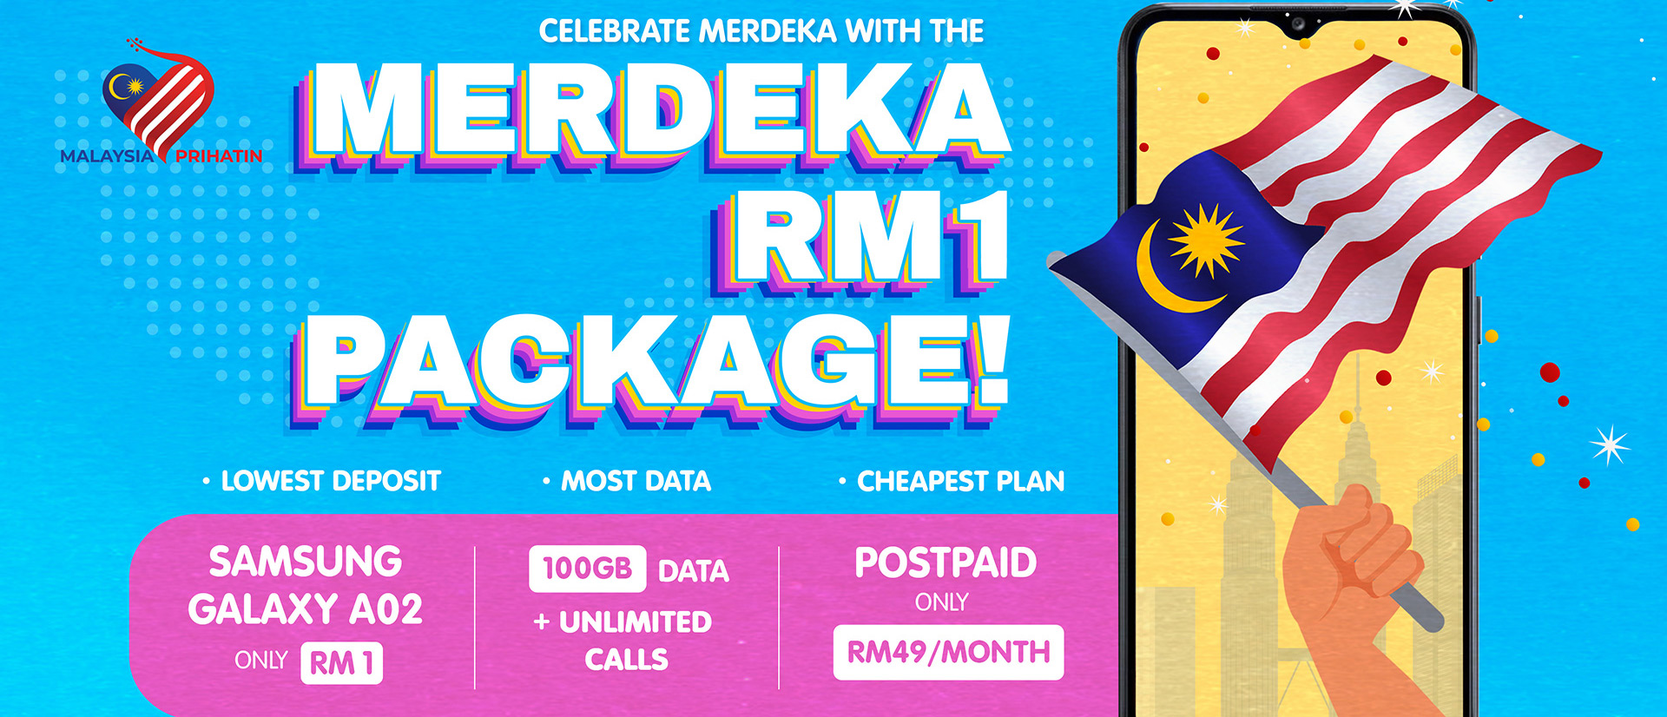
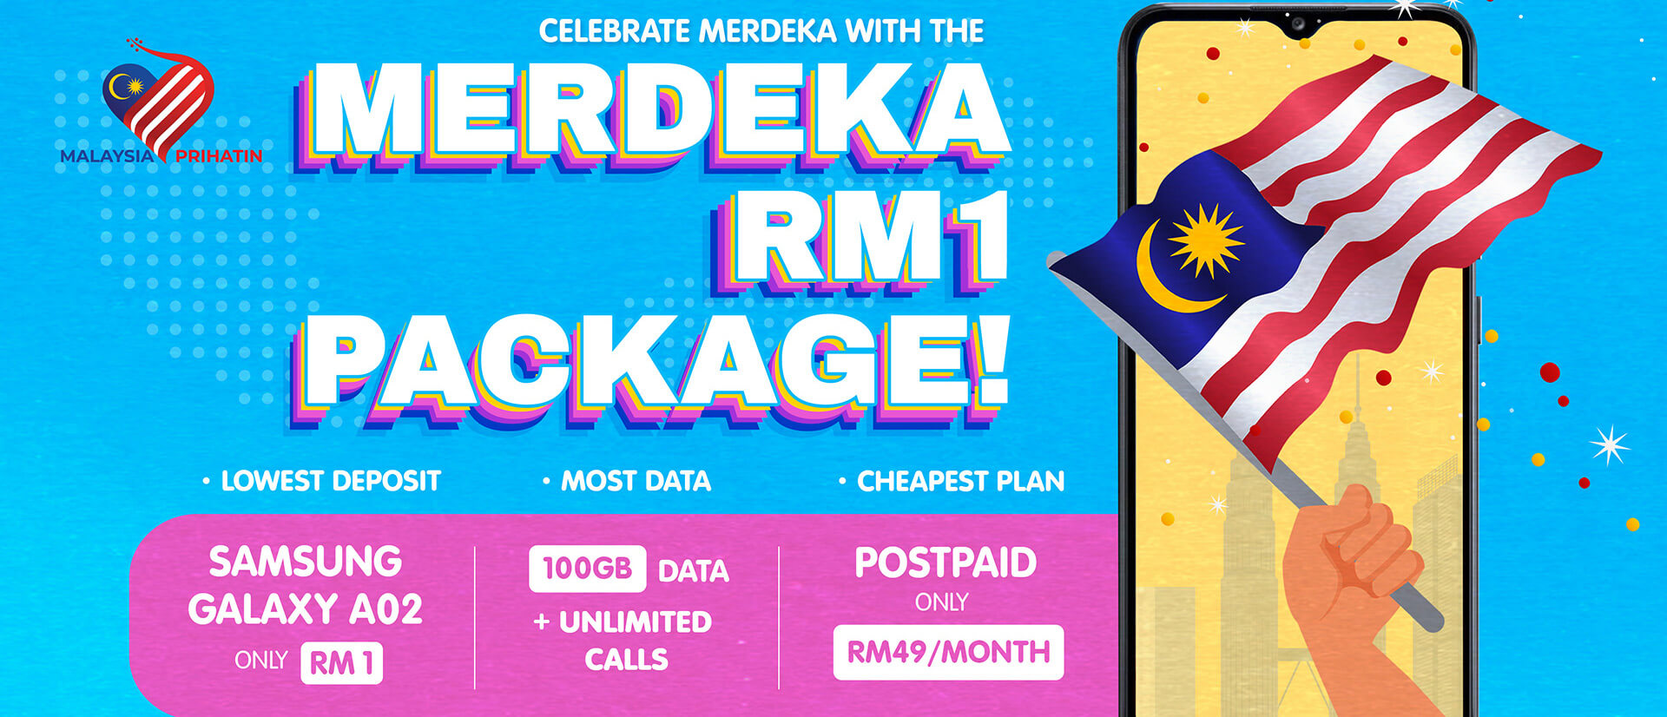
compressed images updated

diff --git a/static/css/aos.css b/static/css/aos.css
@@ -1,0 +1,1 @@
+[data-aos][data-aos][data-aos-duration="50"],body[data-aos-duration="50"] [data-aos]{transition-duration:50ms}[data-aos][data-aos][data-aos-delay="50"],body[data-aos-delay="50"] [data-aos]{transition-delay:0}[data-aos][data-aos][data-aos-delay="50"].aos-animate,body[data-aos-delay="50"] [data-aos].aos-animate{transition-delay:50ms}[data-aos][data-aos][data-aos-duration="100"],body[data-aos-duration="100"] [data-aos]{transition-duration:.1s}[data-aos][data-aos][data-aos-delay="100"],body[data-aos-delay="100"] [data-aos]{transition-delay:0}[data-aos][data-aos][data-aos-delay="100"].aos-animate,body[data-aos-delay="100"] [data-aos].aos-animate{transition-delay:.1s}[data-aos][data-aos][data-aos-duration="150"],body[data-aos-duration="150"] [data-aos]{transition-duration:.15s}[data-aos][data-aos][data-aos-delay="150"],body[data-aos-delay="150"] [data-aos]{transition-delay:0}[data-aos][data-aos][data-aos-delay="150"].aos-animate,body[data-aos-delay="150"] [data-aos].aos-animate{transition-delay:.15s}[data-aos][data-aos][data-aos-duration="200"],body[data-aos-duration="200"] [data-aos]{transition-duration:.2s}[data-aos][data-aos][data-aos-delay="200"],body[data-aos-delay="200"] [data-aos]{transition-delay:0}[data-aos][data-aos][data-aos-delay="200"].aos-animate,body[data-aos-delay="200"] [data-aos].aos-animate{transition-delay:.2s}[data-aos][data-aos][data-aos-duration="250"],body[data-aos-duration="250"] [data-aos]{transition-duration:.25s}[data-aos][data-aos][data-aos-delay="250"],body[data-aos-delay="250"] [data-aos]{transition-delay:0}[data-aos][data-aos][data-aos-delay="250"].aos-animate,body[data-aos-delay="250"] [data-aos].aos-animate{transition-delay:.25s}[data-aos][data-aos][data-aos-duration="300"],body[data-aos-duration="300"] [data-aos]{transition-duration:.3s}[data-aos][data-aos][data-aos-delay="300"],body[data-aos-delay="300"] [data-aos]{transition-delay:0}[data-aos][data-aos][data-aos-delay="300"].aos-animate,body[data-aos-delay="300"] [data-aos].aos-animate{transition-delay:.3s}[data-aos][data-aos][data-aos-duration="350"],body[data-aos-duration="350"] [data-aos]{transition-duration:.35s}[data-aos][data-aos][data-aos-delay="350"],body[data-aos-delay="350"] [data-aos]{transition-delay:0}[data-aos][data-aos][data-aos-delay="350"].aos-animate,body[data-aos-delay="350"] [data-aos].aos-animate{transition-delay:.35s}[data-aos][data-aos][data-aos-duration="400"],body[data-aos-duration="400"] [data-aos]{transition-duration:.4s}[data-aos][data-aos][data-aos-delay="400"],body[data-aos-delay="400"] [data-aos]{transition-delay:0}[data-aos][data-aos][data-aos-delay="400"].aos-animate,body[data-aos-delay="400"] [data-aos].aos-animate{transition-delay:.4s}[data-aos][data-aos][data-aos-duration="450"],body[data-aos-duration="450"] [data-aos]{transition-duration:.45s}[data-aos][data-aos][data-aos-delay="450"],body[data-aos-delay="450"] [data-aos]{transition-delay:0}[data-aos][data-aos][data-aos-delay="450"].aos-animate,body[data-aos-delay="450"] [data-aos].aos-animate{transition-delay:.45s}[data-aos][data-aos][data-aos-duration="500"],body[data-aos-duration="500"] [data-aos]{transition-duration:.5s}[data-aos][data-aos][data-aos-delay="500"],body[data-aos-delay="500"] [data-aos]{transition-delay:0}[data-aos][data-aos][data-aos-delay="500"].aos-animate,body[data-aos-delay="500"] [data-aos].aos-animate{transition-delay:.5s}[data-aos][data-aos][data-aos-duration="550"],body[data-aos-duration="550"] [data-aos]{transition-duration:.55s}[data-aos][data-aos][data-aos-delay="550"],body[data-aos-delay="550"] [data-aos]{transition-delay:0}[data-aos][data-aos][data-aos-delay="550"].aos-animate,body[data-aos-delay="550"] [data-aos].aos-animate{transition-delay:.55s}[data-aos][data-aos][data-aos-duration="600"],body[data-aos-duration="600"] [data-aos]{transition-duration:.6s}[data-aos][data-aos][data-aos-delay="600"],body[data-aos-delay="600"] [data-aos]{transition-delay:0}[data-aos][data-aos][data-aos-delay="600"].aos-animate,body[data-aos-delay="600"] [data-aos].aos-animate{transition-delay:.6s}[data-aos][data-aos][data-aos-duration="650"],body[data-aos-duration="650"] [data-aos]{transition-duration:.65s}[data-aos][data-aos][data-aos-delay="650"],body[data-aos-delay="650"] [data-aos]{transition-delay:0}[data-aos][data-aos][data-aos-delay="650"].aos-animate,body[data-aos-delay="650"] [data-aos].aos-animate{transition-delay:.65s}[data-aos][data-aos][data-aos-duration="700"],body[data-aos-duration="700"] [data-aos]{transition-duration:.7s}[data-aos][data-aos][data-aos-delay="700"],body[data-aos-delay="700"] [data-aos]{transition-delay:0}[data-aos][data-aos][data-aos-delay="700"].aos-animate,body[data-aos-delay="700"] [data-aos].aos-animate{transition-delay:.7s}[data-aos][data-aos][data-aos-duration="750"],body[data-aos-duration="750"] [data-aos]{transition-duration:.75s}[data-aos][data-aos][data-aos-delay="750"],body[data-aos-delay="750"] [data-aos]{transition-delay:0}[data-aos][data-aos][data-aos-delay="750"].aos-animate,body[data-aos-delay="750"] [data-aos].aos-animate{transition-delay:.75s}[data-aos][data-aos][data-aos-duration="800"],body[data-aos-duration="800"] [data-aos]{transition-duration:.8s}[data-aos][data-aos][data-aos-delay="800"],body[data-aos-delay="800"] [data-aos]{transition-delay:0}[data-aos][data-aos][data-aos-delay="800"].aos-animate,body[data-aos-delay="800"] [data-aos].aos-animate{transition-delay:.8s}[data-aos][data-aos][data-aos-duration="850"],body[data-aos-duration="850"] [data-aos]{transition-duration:.85s}[data-aos][data-aos][data-aos-delay="850"],body[data-aos-delay="850"] [data-aos]{transition-delay:0}[data-aos][data-aos][data-aos-delay="850"].aos-animate,body[data-aos-delay="850"] [data-aos].aos-animate{transition-delay:.85s}[data-aos][data-aos][data-aos-duration="900"],body[data-aos-duration="900"] [data-aos]{transition-duration:.9s}[data-aos][data-aos][data-aos-delay="900"],body[data-aos-delay="900"] [data-aos]{transition-delay:0}[data-aos][data-aos][data-aos-delay="900"].aos-animate,body[data-aos-delay="900"] [data-aos].aos-animate{transition-delay:.9s}[data-aos][data-aos][data-aos-duration="950"],body[data-aos-duration="950"] [data-aos]{transition-duration:.95s}[data-aos][data-aos][data-aos-delay="950"],body[data-aos-delay="950"] [data-aos]{transition-delay:0}[data-aos][data-aos][data-aos-delay="950"].aos-animate,body[data-aos-delay="950"] [data-aos].aos-animate{transition-delay:.95s}[data-aos][data-aos][data-aos-duration="1000"],body[data-aos-duration="1000"] [data-aos]{transition-duration:1s}[data-aos][data-aos][data-aos-delay="1000"],body[data-aos-delay="1000"] [data-aos]{transition-delay:0}[data-aos][data-aos][data-aos-delay="1000"].aos-animate,body[data-aos-delay="1000"] [data-aos].aos-animate{transition-delay:1s}[data-aos][data-aos][data-aos-duration="1050"],body[data-aos-duration="1050"] [data-aos]{transition-duration:1.05s}[data-aos][data-aos][data-aos-delay="1050"],body[data-aos-delay="1050"] [data-aos]{transition-delay:0}[data-aos][data-aos][data-aos-delay="1050"].aos-animate,body[data-aos-delay="1050"] [data-aos].aos-animate{transition-delay:1.05s}[data-aos][data-aos][data-aos-duration="1100"],body[data-aos-duration="1100"] [data-aos]{transition-duration:1.1s}[data-aos][data-aos][data-aos-delay="1100"],body[data-aos-delay="1100"] [data-aos]{transition-delay:0}[data-aos][data-aos][data-aos-delay="1100"].aos-animate,body[data-aos-delay="1100"] [data-aos].aos-animate{transition-delay:1.1s}[data-aos][data-aos][data-aos-duration="1150"],body[data-aos-duration="1150"] [data-aos]{transition-duration:1.15s}[data-aos][data-aos][data-aos-delay="1150"],body[data-aos-delay="1150"] [data-aos]{transition-delay:0}[data-aos][data-aos][data-aos-delay="1150"].aos-animate,body[data-aos-delay="1150"] [data-aos].aos-animate{transition-delay:1.15s}[data-aos][data-aos][data-aos-duration="1200"],body[data-aos-duration="1200"] [data-aos]{transition-duration:1.2s}[data-aos][data-aos][data-aos-delay="1200"],body[data-aos-delay="1200"] [data-aos]{transition-delay:0}[data-aos][data-aos][data-aos-delay="1200"].aos-animate,body[data-aos-delay="1200"] [data-aos].aos-animate{transition-delay:1.2s}[data-aos][data-aos][data-aos-duration="1250"],body[data-aos-duration="1250"] [data-aos]{transition-duration:1.25s}[data-aos][data-aos][data-aos-delay="1250"],body[data-aos-delay="1250"] [data-aos]{transition-delay:0}[data-aos][data-aos][data-aos-delay="1250"].aos-animate,body[data-aos-delay="1250"] [data-aos].aos-animate{transition-delay:1.25s}[data-aos][data-aos][data-aos-duration="1300"],body[data-aos-duration="1300"] [data-aos]{transition-duration:1.3s}[data-aos][data-aos][data-aos-delay="1300"],body[data-aos-delay="1300"] [data-aos]{transition-delay:0}[data-aos][data-aos][data-aos-delay="1300"].aos-animate,body[data-aos-delay="1300"] [data-aos].aos-animate{transition-delay:1.3s}[data-aos][data-aos][data-aos-duration="1350"],body[data-aos-duration="1350"] [data-aos]{transition-duration:1.35s}[data-aos][data-aos][data-aos-delay="1350"],body[data-aos-delay="1350"] [data-aos]{transition-delay:0}[data-aos][data-aos][data-aos-delay="1350"].aos-animate,body[data-aos-delay="1350"] [data-aos].aos-animate{transition-delay:1.35s}[data-aos][data-aos][data-aos-duration="1400"],body[data-aos-duration="1400"] [data-aos]{transition-duration:1.4s}[data-aos][data-aos][data-aos-delay="1400"],body[data-aos-delay="1400"] [data-aos]{transition-delay:0}[data-aos][data-aos][data-aos-delay="1400"].aos-animate,body[data-aos-delay="1400"] [data-aos].aos-animate{transition-delay:1.4s}[data-aos][data-aos][data-aos-duration="1450"],body[data-aos-duration="1450"] [data-aos]{transition-duration:1.45s}[data-aos][data-aos][data-aos-delay="1450"],body[data-aos-delay="1450"] [data-aos]{transition-delay:0}[data-aos][data-aos][data-aos-delay="1450"].aos-animate,body[data-aos-delay="1450"] [data-aos].aos-animate{transition-delay:1.45s}[data-aos][data-aos][data-aos-duration="1500"],body[data-aos-duration="1500"] [data-aos]{transition-duration:1.5s}[data-aos][data-aos][data-aos-delay="1500"],body[data-aos-delay="1500"] [data-aos]{transition-delay:0}[data-aos][data-aos][data-aos-delay="1500"].aos-animate,body[data-aos-delay="1500"] [data-aos].aos-animate{transition-delay:1.5s}[data-aos][data-aos][data-aos-duration="1550"],body[data-aos-duration="1550"] [data-aos]{transition-duration:1.55s}[data-aos][data-aos][data-aos-delay="1550"],body[data-aos-delay="1550"] [data-aos]{transition-delay:0}[data-aos][data-aos][data-aos-delay="1550"].aos-animate,body[data-aos-delay="1550"] [data-aos].aos-animate{transition-delay:1.55s}[data-aos][data-aos][data-aos-duration="1600"],body[data-aos-duration="1600"] [data-aos]{transition-duration:1.6s}[data-aos][data-aos][data-aos-delay="1600"],body[data-aos-delay="1600"] [data-aos]{transition-delay:0}[data-aos][data-aos][data-aos-delay="1600"].aos-animate,body[data-aos-delay="1600"] [data-aos].aos-animate{transition-delay:1.6s}[data-aos][data-aos][data-aos-duration="1650"],body[data-aos-duration="1650"] [data-aos]{transition-duration:1.65s}[data-aos][data-aos][data-aos-delay="1650"],body[data-aos-delay="1650"] [data-aos]{transition-delay:0}[data-aos][data-aos][data-aos-delay="1650"].aos-animate,body[data-aos-delay="1650"] [data-aos].aos-animate{transition-delay:1.65s}[data-aos][data-aos][data-aos-duration="1700"],body[data-aos-duration="1700"] [data-aos]{transition-duration:1.7s}[data-aos][data-aos][data-aos-delay="1700"],body[data-aos-delay="1700"] [data-aos]{transition-delay:0}[data-aos][data-aos][data-aos-delay="1700"].aos-animate,body[data-aos-delay="1700"] [data-aos].aos-animate{transition-delay:1.7s}[data-aos][data-aos][data-aos-duration="1750"],body[data-aos-duration="1750"] [data-aos]{transition-duration:1.75s}[data-aos][data-aos][data-aos-delay="1750"],body[data-aos-delay="1750"] [data-aos]{transition-delay:0}[data-aos][data-aos][data-aos-delay="1750"].aos-animate,body[data-aos-delay="1750"] [data-aos].aos-animate{transition-delay:1.75s}[data-aos][data-aos][data-aos-duration="1800"],body[data-aos-duration="1800"] [data-aos]{transition-duration:1.8s}[data-aos][data-aos][data-aos-delay="1800"],body[data-aos-delay="1800"] [data-aos]{transition-delay:0}[data-aos][data-aos][data-aos-delay="1800"].aos-animate,body[data-aos-delay="1800"] [data-aos].aos-animate{transition-delay:1.8s}[data-aos][data-aos][data-aos-duration="1850"],body[data-aos-duration="1850"] [data-aos]{transition-duration:1.85s}[data-aos][data-aos][data-aos-delay="1850"],body[data-aos-delay="1850"] [data-aos]{transition-delay:0}[data-aos][data-aos][data-aos-delay="1850"].aos-animate,body[data-aos-delay="1850"] [data-aos].aos-animate{transition-delay:1.85s}[data-aos][data-aos][data-aos-duration="1900"],body[data-aos-duration="1900"] [data-aos]{transition-duration:1.9s}[data-aos][data-aos][data-aos-delay="1900"],body[data-aos-delay="1900"] [data-aos]{transition-delay:0}[data-aos][data-aos][data-aos-delay="1900"].aos-animate,body[data-aos-delay="1900"] [data-aos].aos-animate{transition-delay:1.9s}[data-aos][data-aos][data-aos-duration="1950"],body[data-aos-duration="1950"] [data-aos]{transition-duration:1.95s}[data-aos][data-aos][data-aos-delay="1950"],body[data-aos-delay="1950"] [data-aos]{transition-delay:0}[data-aos][data-aos][data-aos-delay="1950"].aos-animate,body[data-aos-delay="1950"] [data-aos].aos-animate{transition-delay:1.95s}[data-aos][data-aos][data-aos-duration="2000"],body[data-aos-duration="2000"] [data-aos]{transition-duration:2s}[data-aos][data-aos][data-aos-delay="2000"],body[data-aos-delay="2000"] [data-aos]{transition-delay:0}[data-aos][data-aos][data-aos-delay="2000"].aos-animate,body[data-aos-delay="2000"] [data-aos].aos-animate{transition-delay:2s}[data-aos][data-aos][data-aos-duration="2050"],body[data-aos-duration="2050"] [data-aos]{transition-duration:2.05s}[data-aos][data-aos][data-aos-delay="2050"],body[data-aos-delay="2050"] [data-aos]{transition-delay:0}[data-aos][data-aos][data-aos-delay="2050"].aos-animate,body[data-aos-delay="2050"] [data-aos].aos-animate{transition-delay:2.05s}[data-aos][data-aos][data-aos-duration="2100"],body[data-aos-duration="2100"] [data-aos]{transition-duration:2.1s}[data-aos][data-aos][data-aos-delay="2100"],body[data-aos-delay="2100"] [data-aos]{transition-delay:0}[data-aos][data-aos][data-aos-delay="2100"].aos-animate,body[data-aos-delay="2100"] [data-aos].aos-animate{transition-delay:2.1s}[data-aos][data-aos][data-aos-duration="2150"],body[data-aos-duration="2150"] [data-aos]{transition-duration:2.15s}[data-aos][data-aos][data-aos-delay="2150"],body[data-aos-delay="2150"] [data-aos]{transition-delay:0}[data-aos][data-aos][data-aos-delay="2150"].aos-animate,body[data-aos-delay="2150"] [data-aos].aos-animate{transition-delay:2.15s}[data-aos][data-aos][data-aos-duration="2200"],body[data-aos-duration="2200"] [data-aos]{transition-duration:2.2s}[data-aos][data-aos][data-aos-delay="2200"],body[data-aos-delay="2200"] [data-aos]{transition-delay:0}[data-aos][data-aos][data-aos-delay="2200"].aos-animate,body[data-aos-delay="2200"] [data-aos].aos-animate{transition-delay:2.2s}[data-aos][data-aos][data-aos-duration="2250"],body[data-aos-duration="2250"] [data-aos]{transition-duration:2.25s}[data-aos][data-aos][data-aos-delay="2250"],body[data-aos-delay="2250"] [data-aos]{transition-delay:0}[data-aos][data-aos][data-aos-delay="2250"].aos-animate,body[data-aos-delay="2250"] [data-aos].aos-animate{transition-delay:2.25s}[data-aos][data-aos][data-aos-duration="2300"],body[data-aos-duration="2300"] [data-aos]{transition-duration:2.3s}[data-aos][data-aos][data-aos-delay="2300"],body[data-aos-delay="2300"] [data-aos]{transition-delay:0}[data-aos][data-aos][data-aos-delay="2300"].aos-animate,body[data-aos-delay="2300"] [data-aos].aos-animate{transition-delay:2.3s}[data-aos][data-aos][data-aos-duration="2350"],body[data-aos-duration="2350"] [data-aos]{transition-duration:2.35s}[data-aos][data-aos][data-aos-delay="2350"],body[data-aos-delay="2350"] [data-aos]{transition-delay:0}[data-aos][data-aos][data-aos-delay="2350"].aos-animate,body[data-aos-delay="2350"] [data-aos].aos-animate{transition-delay:2.35s}[data-aos][data-aos][data-aos-duration="2400"],body[data-aos-duration="2400"] [data-aos]{transition-duration:2.4s}[data-aos][data-aos][data-aos-delay="2400"],body[data-aos-delay="2400"] [data-aos]{transition-delay:0}[data-aos][data-aos][data-aos-delay="2400"].aos-animate,body[data-aos-delay="2400"] [data-aos].aos-animate{transition-delay:2.4s}[data-aos][data-aos][data-aos-duration="2450"],body[data-aos-duration="2450"] [data-aos]{transition-duration:2.45s}[data-aos][data-aos][data-aos-delay="2450"],body[data-aos-delay="2450"] [data-aos]{transition-delay:0}[data-aos][data-aos][data-aos-delay="2450"].aos-animate,body[data-aos-delay="2450"] [data-aos].aos-animate{transition-delay:2.45s}[data-aos][data-aos][data-aos-duration="2500"],body[data-aos-duration="2500"] [data-aos]{transition-duration:2.5s}[data-aos][data-aos][data-aos-delay="2500"],body[data-aos-delay="2500"] [data-aos]{transition-delay:0}[data-aos][data-aos][data-aos-delay="2500"].aos-animate,body[data-aos-delay="2500"] [data-aos].aos-animate{transition-delay:2.5s}[data-aos][data-aos][data-aos-duration="2550"],body[data-aos-duration="2550"] [data-aos]{transition-duration:2.55s}[data-aos][data-aos][data-aos-delay="2550"],body[data-aos-delay="2550"] [data-aos]{transition-delay:0}[data-aos][data-aos][data-aos-delay="2550"].aos-animate,body[data-aos-delay="2550"] [data-aos].aos-animate{transition-delay:2.55s}[data-aos][data-aos][data-aos-duration="2600"],body[data-aos-duration="2600"] [data-aos]{transition-duration:2.6s}[data-aos][data-aos][data-aos-delay="2600"],body[data-aos-delay="2600"] [data-aos]{transition-delay:0}[data-aos][data-aos][data-aos-delay="2600"].aos-animate,body[data-aos-delay="2600"] [data-aos].aos-animate{transition-delay:2.6s}[data-aos][data-aos][data-aos-duration="2650"],body[data-aos-duration="2650"] [data-aos]{transition-duration:2.65s}[data-aos][data-aos][data-aos-delay="2650"],body[data-aos-delay="2650"] [data-aos]{transition-delay:0}[data-aos][data-aos][data-aos-delay="2650"].aos-animate,body[data-aos-delay="2650"] [data-aos].aos-animate{transition-delay:2.65s}[data-aos][data-aos][data-aos-duration="2700"],body[data-aos-duration="2700"] [data-aos]{transition-duration:2.7s}[data-aos][data-aos][data-aos-delay="2700"],body[data-aos-delay="2700"] [data-aos]{transition-delay:0}[data-aos][data-aos][data-aos-delay="2700"].aos-animate,body[data-aos-delay="2700"] [data-aos].aos-animate{transition-delay:2.7s}[data-aos][data-aos][data-aos-duration="2750"],body[data-aos-duration="2750"] [data-aos]{transition-duration:2.75s}[data-aos][data-aos][data-aos-delay="2750"],body[data-aos-delay="2750"] [data-aos]{transition-delay:0}[data-aos][data-aos][data-aos-delay="2750"].aos-animate,body[data-aos-delay="2750"] [data-aos].aos-animate{transition-delay:2.75s}[data-aos][data-aos][data-aos-duration="2800"],body[data-aos-duration="2800"] [data-aos]{transition-duration:2.8s}[data-aos][data-aos][data-aos-delay="2800"],body[data-aos-delay="2800"] [data-aos]{transition-delay:0}[data-aos][data-aos][data-aos-delay="2800"].aos-animate,body[data-aos-delay="2800"] [data-aos].aos-animate{transition-delay:2.8s}[data-aos][data-aos][data-aos-duration="2850"],body[data-aos-duration="2850"] [data-aos]{transition-duration:2.85s}[data-aos][data-aos][data-aos-delay="2850"],body[data-aos-delay="2850"] [data-aos]{transition-delay:0}[data-aos][data-aos][data-aos-delay="2850"].aos-animate,body[data-aos-delay="2850"] [data-aos].aos-animate{transition-delay:2.85s}[data-aos][data-aos][data-aos-duration="2900"],body[data-aos-duration="2900"] [data-aos]{transition-duration:2.9s}[data-aos][data-aos][data-aos-delay="2900"],body[data-aos-delay="2900"] [data-aos]{transition-delay:0}[data-aos][data-aos][data-aos-delay="2900"].aos-animate,body[data-aos-delay="2900"] [data-aos].aos-animate{transition-delay:2.9s}[data-aos][data-aos][data-aos-duration="2950"],body[data-aos-duration="2950"] [data-aos]{transition-duration:2.95s}[data-aos][data-aos][data-aos-delay="2950"],body[data-aos-delay="2950"] [data-aos]{transition-delay:0}[data-aos][data-aos][data-aos-delay="2950"].aos-animate,body[data-aos-delay="2950"] [data-aos].aos-animate{transition-delay:2.95s}[data-aos][data-aos][data-aos-duration="3000"],body[data-aos-duration="3000"] [data-aos]{transition-duration:3s}[data-aos][data-aos][data-aos-delay="3000"],body[data-aos-delay="3000"] [data-aos]{transition-delay:0}[data-aos][data-aos][data-aos-delay="3000"].aos-animate,body[data-aos-delay="3000"] [data-aos].aos-animate{transition-delay:3s}[data-aos][data-aos][data-aos-easing=linear],body[data-aos-easing=linear] [data-aos]{transition-timing-function:cubic-bezier(.25,.25,.75,.75)}[data-aos][data-aos][data-aos-easing=ease],body[data-aos-easing=ease] [data-aos]{transition-timing-function:ease}[data-aos][data-aos][data-aos-easing=ease-in],body[data-aos-easing=ease-in] [data-aos]{transition-timing-function:ease-in}[data-aos][data-aos][data-aos-easing=ease-out],body[data-aos-easing=ease-out] [data-aos]{transition-timing-function:ease-out}[data-aos][data-aos][data-aos-easing=ease-in-out],body[data-aos-easing=ease-in-out] [data-aos]{transition-timing-function:ease-in-out}[data-aos][data-aos][data-aos-easing=ease-in-back],body[data-aos-easing=ease-in-back] [data-aos]{transition-timing-function:cubic-bezier(.6,-.28,.735,.045)}[data-aos][data-aos][data-aos-easing=ease-out-back],body[data-aos-easing=ease-out-back] [data-aos]{transition-timing-function:cubic-bezier(.175,.885,.32,1.275)}[data-aos][data-aos][data-aos-easing=ease-in-out-back],body[data-aos-easing=ease-in-out-back] [data-aos]{transition-timing-function:cubic-bezier(.68,-.55,.265,1.55)}[data-aos][data-aos][data-aos-easing=ease-in-sine],body[data-aos-easing=ease-in-sine] [data-aos]{transition-timing-function:cubic-bezier(.47,0,.745,.715)}[data-aos][data-aos][data-aos-easing=ease-out-sine],body[data-aos-easing=ease-out-sine] [data-aos]{transition-timing-function:cubic-bezier(.39,.575,.565,1)}[data-aos][data-aos][data-aos-easing=ease-in-out-sine],body[data-aos-easing=ease-in-out-sine] [data-aos]{transition-timing-function:cubic-bezier(.445,.05,.55,.95)}[data-aos][data-aos][data-aos-easing=ease-in-quad],body[data-aos-easing=ease-in-quad] [data-aos]{transition-timing-function:cubic-bezier(.55,.085,.68,.53)}[data-aos][data-aos][data-aos-easing=ease-out-quad],body[data-aos-easing=ease-out-quad] [data-aos]{transition-timing-function:cubic-bezier(.25,.46,.45,.94)}[data-aos][data-aos][data-aos-easing=ease-in-out-quad],body[data-aos-easing=ease-in-out-quad] [data-aos]{transition-timing-function:cubic-bezier(.455,.03,.515,.955)}[data-aos][data-aos][data-aos-easing=ease-in-cubic],body[data-aos-easing=ease-in-cubic] [data-aos]{transition-timing-function:cubic-bezier(.55,.085,.68,.53)}[data-aos][data-aos][data-aos-easing=ease-out-cubic],body[data-aos-easing=ease-out-cubic] [data-aos]{transition-timing-function:cubic-bezier(.25,.46,.45,.94)}[data-aos][data-aos][data-aos-easing=ease-in-out-cubic],body[data-aos-easing=ease-in-out-cubic] [data-aos]{transition-timing-function:cubic-bezier(.455,.03,.515,.955)}[data-aos][data-aos][data-aos-easing=ease-in-quart],body[data-aos-easing=ease-in-quart] [data-aos]{transition-timing-function:cubic-bezier(.55,.085,.68,.53)}[data-aos][data-aos][data-aos-easing=ease-out-quart],body[data-aos-easing=ease-out-quart] [data-aos]{transition-timing-function:cubic-bezier(.25,.46,.45,.94)}[data-aos][data-aos][data-aos-easing=ease-in-out-quart],body[data-aos-easing=ease-in-out-quart] [data-aos]{transition-timing-function:cubic-bezier(.455,.03,.515,.955)}[data-aos^=fade][data-aos^=fade]{opacity:0;transition-property:opacity,transform}[data-aos^=fade][data-aos^=fade].aos-animate{opacity:1;transform:translateZ(0)}[data-aos=fade-up]{transform:translate3d(0,100px,0)}[data-aos=fade-down]{transform:translate3d(0,-100px,0)}[data-aos=fade-right]{transform:translate3d(-100px,0,0)}[data-aos=fade-left]{transform:translate3d(100px,0,0)}[data-aos=fade-up-right]{transform:translate3d(-100px,100px,0)}[data-aos=fade-up-left]{transform:translate3d(100px,100px,0)}[data-aos=fade-down-right]{transform:translate3d(-100px,-100px,0)}[data-aos=fade-down-left]{transform:translate3d(100px,-100px,0)}[data-aos^=zoom][data-aos^=zoom]{opacity:0;transition-property:opacity,transform}[data-aos^=zoom][data-aos^=zoom].aos-animate{opacity:1;transform:translateZ(0) scale(1)}[data-aos=zoom-in]{transform:scale(.6)}[data-aos=zoom-in-up]{transform:translate3d(0,100px,0) scale(.6)}[data-aos=zoom-in-down]{transform:translate3d(0,-100px,0) scale(.6)}[data-aos=zoom-in-right]{transform:translate3d(-100px,0,0) scale(.6)}[data-aos=zoom-in-left]{transform:translate3d(100px,0,0) scale(.6)}[data-aos=zoom-out]{transform:scale(1.2)}[data-aos=zoom-out-up]{transform:translate3d(0,100px,0) scale(1.2)}[data-aos=zoom-out-down]{transform:translate3d(0,-100px,0) scale(1.2)}[data-aos=zoom-out-right]{transform:translate3d(-100px,0,0) scale(1.2)}[data-aos=zoom-out-left]{transform:translate3d(100px,0,0) scale(1.2)}[data-aos^=slide][data-aos^=slide]{transition-property:transform}[data-aos^=slide][data-aos^=slide].aos-animate{transform:translateZ(0)}[data-aos=slide-up]{transform:translate3d(0,100%,0)}[data-aos=slide-down]{transform:translate3d(0,-100%,0)}[data-aos=slide-right]{transform:translate3d(-100%,0,0)}[data-aos=slide-left]{transform:translate3d(100%,0,0)}[data-aos^=flip][data-aos^=flip]{backface-visibility:hidden;transition-property:transform}[data-aos=flip-left]{transform:perspective(2500px) rotateY(-100deg)}[data-aos=flip-left].aos-animate{transform:perspective(2500px) rotateY(0)}[data-aos=flip-right]{transform:perspective(2500px) rotateY(100deg)}[data-aos=flip-right].aos-animate{transform:perspective(2500px) rotateY(0)}[data-aos=flip-up]{transform:perspective(2500px) rotateX(-100deg)}[data-aos=flip-up].aos-animate{transform:perspective(2500px) rotateX(0)}[data-aos=flip-down]{transform:perspective(2500px) rotateX(100deg)}[data-aos=flip-down].aos-animate{transform:perspective(2500px) rotateX(0)}

diff --git a/static/js/aos.js b/static/js/aos.js
@@ -1,0 +1,1 @@
+!function(e,t){"object"==typeof exports&&"object"==typeof module?module.exports=t():"function"==typeof define&&define.amd?define([],t):"object"==typeof exports?exports.AOS=t():e.AOS=t()}(this,function(){return function(e){function t(o){if(n[o])return n[o].exports;var i=n[o]={exports:{},id:o,loaded:!1};return e[o].call(i.exports,i,i.exports,t),i.loaded=!0,i.exports}var n={};return t.m=e,t.c=n,t.p="dist/",t(0)}([function(e,t,n){"use strict";function o(e){return e&&e.__esModule?e:{default:e}}var i=Object.assign||function(e){for(var t=1;t<arguments.length;t++){var n=arguments[t];for(var o in n)Object.prototype.hasOwnProperty.call(n,o)&&(e[o]=n[o])}return e},r=n(1),a=(o(r),n(6)),u=o(a),c=n(7),f=o(c),s=n(8),d=o(s),l=n(9),p=o(l),m=n(10),b=o(m),v=n(11),y=o(v),g=n(14),h=o(g),w=[],k=!1,x=document.all&&!window.atob,j={offset:120,delay:0,easing:"ease",duration:400,disable:!1,once:!1,startEvent:"DOMContentLoaded",throttleDelay:99,debounceDelay:50,disableMutationObserver:!1},O=function(){var e=arguments.length>0&&void 0!==arguments[0]&&arguments[0];if(e&&(k=!0),k)return w=(0,y.default)(w,j),(0,b.default)(w,j.once),w},_=function(){w=(0,h.default)(),O()},S=function(){w.forEach(function(e,t){e.node.removeAttribute("data-aos"),e.node.removeAttribute("data-aos-easing"),e.node.removeAttribute("data-aos-duration"),e.node.removeAttribute("data-aos-delay")})},z=function(e){return e===!0||"mobile"===e&&p.default.mobile()||"phone"===e&&p.default.phone()||"tablet"===e&&p.default.tablet()||"function"==typeof e&&e()===!0},A=function(e){return j=i(j,e),w=(0,h.default)(),z(j.disable)||x?S():(document.querySelector("body").setAttribute("data-aos-easing",j.easing),document.querySelector("body").setAttribute("data-aos-duration",j.duration),document.querySelector("body").setAttribute("data-aos-delay",j.delay),"DOMContentLoaded"===j.startEvent&&["complete","interactive"].indexOf(document.readyState)>-1?O(!0):"load"===j.startEvent?window.addEventListener(j.startEvent,function(){O(!0)}):document.addEventListener(j.startEvent,function(){O(!0)}),window.addEventListener("resize",(0,f.default)(O,j.debounceDelay,!0)),window.addEventListener("orientationchange",(0,f.default)(O,j.debounceDelay,!0)),window.addEventListener("scroll",(0,u.default)(function(){(0,b.default)(w,j.once)},j.throttleDelay)),j.disableMutationObserver||(0,d.default)("[data-aos]",_),w)};e.exports={init:A,refresh:O,refreshHard:_}},function(e,t){},,,,,function(e,t){(function(t){"use strict";function n(e,t,n){function o(t){var n=b,o=v;return b=v=void 0,k=t,g=e.apply(o,n)}function r(e){return k=e,h=setTimeout(s,t),_?o(e):g}function a(e){var n=e-w,o=e-k,i=t-n;return S?j(i,y-o):i}function c(e){var n=e-w,o=e-k;return void 0===w||n>=t||n<0||S&&o>=y}function s(){var e=O();return c(e)?d(e):void(h=setTimeout(s,a(e)))}function d(e){return h=void 0,z&&b?o(e):(b=v=void 0,g)}function l(){void 0!==h&&clearTimeout(h),k=0,b=w=v=h=void 0}function p(){return void 0===h?g:d(O())}function m(){var e=O(),n=c(e);if(b=arguments,v=this,w=e,n){if(void 0===h)return r(w);if(S)return h=setTimeout(s,t),o(w)}return void 0===h&&(h=setTimeout(s,t)),g}var b,v,y,g,h,w,k=0,_=!1,S=!1,z=!0;if("function"!=typeof e)throw new TypeError(f);return t=u(t)||0,i(n)&&(_=!!n.leading,S="maxWait"in n,y=S?x(u(n.maxWait)||0,t):y,z="trailing"in n?!!n.trailing:z),m.cancel=l,m.flush=p,m}function o(e,t,o){var r=!0,a=!0;if("function"!=typeof e)throw new TypeError(f);return i(o)&&(r="leading"in o?!!o.leading:r,a="trailing"in o?!!o.trailing:a),n(e,t,{leading:r,maxWait:t,trailing:a})}function i(e){var t="undefined"==typeof e?"undefined":c(e);return!!e&&("object"==t||"function"==t)}function r(e){return!!e&&"object"==("undefined"==typeof e?"undefined":c(e))}function a(e){return"symbol"==("undefined"==typeof e?"undefined":c(e))||r(e)&&k.call(e)==d}function u(e){if("number"==typeof e)return e;if(a(e))return s;if(i(e)){var t="function"==typeof e.valueOf?e.valueOf():e;e=i(t)?t+"":t}if("string"!=typeof e)return 0===e?e:+e;e=e.replace(l,"");var n=m.test(e);return n||b.test(e)?v(e.slice(2),n?2:8):p.test(e)?s:+e}var c="function"==typeof Symbol&&"symbol"==typeof Symbol.iterator?function(e){return typeof e}:function(e){return e&&"function"==typeof Symbol&&e.constructor===Symbol&&e!==Symbol.prototype?"symbol":typeof e},f="Expected a function",s=NaN,d="[object Symbol]",l=/^\s+|\s+$/g,p=/^[-+]0x[0-9a-f]+$/i,m=/^0b[01]+$/i,b=/^0o[0-7]+$/i,v=parseInt,y="object"==("undefined"==typeof t?"undefined":c(t))&&t&&t.Object===Object&&t,g="object"==("undefined"==typeof self?"undefined":c(self))&&self&&self.Object===Object&&self,h=y||g||Function("return this")(),w=Object.prototype,k=w.toString,x=Math.max,j=Math.min,O=function(){return h.Date.now()};e.exports=o}).call(t,function(){return this}())},function(e,t){(function(t){"use strict";function n(e,t,n){function i(t){var n=b,o=v;return b=v=void 0,O=t,g=e.apply(o,n)}function r(e){return O=e,h=setTimeout(s,t),_?i(e):g}function u(e){var n=e-w,o=e-O,i=t-n;return S?x(i,y-o):i}function f(e){var n=e-w,o=e-O;return void 0===w||n>=t||n<0||S&&o>=y}function s(){var e=j();return f(e)?d(e):void(h=setTimeout(s,u(e)))}function d(e){return h=void 0,z&&b?i(e):(b=v=void 0,g)}function l(){void 0!==h&&clearTimeout(h),O=0,b=w=v=h=void 0}function p(){return void 0===h?g:d(j())}function m(){var e=j(),n=f(e);if(b=arguments,v=this,w=e,n){if(void 0===h)return r(w);if(S)return h=setTimeout(s,t),i(w)}return void 0===h&&(h=setTimeout(s,t)),g}var b,v,y,g,h,w,O=0,_=!1,S=!1,z=!0;if("function"!=typeof e)throw new TypeError(c);return t=a(t)||0,o(n)&&(_=!!n.leading,S="maxWait"in n,y=S?k(a(n.maxWait)||0,t):y,z="trailing"in n?!!n.trailing:z),m.cancel=l,m.flush=p,m}function o(e){var t="undefined"==typeof e?"undefined":u(e);return!!e&&("object"==t||"function"==t)}function i(e){return!!e&&"object"==("undefined"==typeof e?"undefined":u(e))}function r(e){return"symbol"==("undefined"==typeof e?"undefined":u(e))||i(e)&&w.call(e)==s}function a(e){if("number"==typeof e)return e;if(r(e))return f;if(o(e)){var t="function"==typeof e.valueOf?e.valueOf():e;e=o(t)?t+"":t}if("string"!=typeof e)return 0===e?e:+e;e=e.replace(d,"");var n=p.test(e);return n||m.test(e)?b(e.slice(2),n?2:8):l.test(e)?f:+e}var u="function"==typeof Symbol&&"symbol"==typeof Symbol.iterator?function(e){return typeof e}:function(e){return e&&"function"==typeof Symbol&&e.constructor===Symbol&&e!==Symbol.prototype?"symbol":typeof e},c="Expected a function",f=NaN,s="[object Symbol]",d=/^\s+|\s+$/g,l=/^[-+]0x[0-9a-f]+$/i,p=/^0b[01]+$/i,m=/^0o[0-7]+$/i,b=parseInt,v="object"==("undefined"==typeof t?"undefined":u(t))&&t&&t.Object===Object&&t,y="object"==("undefined"==typeof self?"undefined":u(self))&&self&&self.Object===Object&&self,g=v||y||Function("return this")(),h=Object.prototype,w=h.toString,k=Math.max,x=Math.min,j=function(){return g.Date.now()};e.exports=n}).call(t,function(){return this}())},function(e,t){"use strict";function n(e,t){var n=new r(o);a=t,n.observe(i.documentElement,{childList:!0,subtree:!0,removedNodes:!0})}function o(e){e&&e.forEach(function(e){var t=Array.prototype.slice.call(e.addedNodes),n=Array.prototype.slice.call(e.removedNodes),o=t.concat(n).filter(function(e){return e.hasAttribute&&e.hasAttribute("data-aos")}).length;o&&a()})}Object.defineProperty(t,"__esModule",{value:!0});var i=window.document,r=window.MutationObserver||window.WebKitMutationObserver||window.MozMutationObserver,a=function(){};t.default=n},function(e,t){"use strict";function n(e,t){if(!(e instanceof t))throw new TypeError("Cannot call a class as a function")}function o(){return navigator.userAgent||navigator.vendor||window.opera||""}Object.defineProperty(t,"__esModule",{value:!0});var i=function(){function e(e,t){for(var n=0;n<t.length;n++){var o=t[n];o.enumerable=o.enumerable||!1,o.configurable=!0,"value"in o&&(o.writable=!0),Object.defineProperty(e,o.key,o)}}return function(t,n,o){return n&&e(t.prototype,n),o&&e(t,o),t}}(),r=/(android|bb\d+|meego).+mobile|avantgo|bada\/|blackberry|blazer|compal|elaine|fennec|hiptop|iemobile|ip(hone|od)|iris|kindle|lge |maemo|midp|mmp|mobile.+firefox|netfront|opera m(ob|in)i|palm( os)?|phone|p(ixi|re)\/|plucker|pocket|psp|series(4|6)0|symbian|treo|up\.(browser|link)|vodafone|wap|windows ce|xda|xiino/i,a=/1207|6310|6590|3gso|4thp|50[1-6]i|770s|802s|a wa|abac|ac(er|oo|s\-)|ai(ko|rn)|al(av|ca|co)|amoi|an(ex|ny|yw)|aptu|ar(ch|go)|as(te|us)|attw|au(di|\-m|r |s )|avan|be(ck|ll|nq)|bi(lb|rd)|bl(ac|az)|br(e|v)w|bumb|bw\-(n|u)|c55\/|capi|ccwa|cdm\-|cell|chtm|cldc|cmd\-|co(mp|nd)|craw|da(it|ll|ng)|dbte|dc\-s|devi|dica|dmob|do(c|p)o|ds(12|\-d)|el(49|ai)|em(l2|ul)|er(ic|k0)|esl8|ez([4-7]0|os|wa|ze)|fetc|fly(\-|_)|g1 u|g560|gene|gf\-5|g\-mo|go(\.w|od)|gr(ad|un)|haie|hcit|hd\-(m|p|t)|hei\-|hi(pt|ta)|hp( i|ip)|hs\-c|ht(c(\-| |_|a|g|p|s|t)|tp)|hu(aw|tc)|i\-(20|go|ma)|i230|iac( |\-|\/)|ibro|idea|ig01|ikom|im1k|inno|ipaq|iris|ja(t|v)a|jbro|jemu|jigs|kddi|keji|kgt( |\/)|klon|kpt |kwc\-|kyo(c|k)|le(no|xi)|lg( g|\/(k|l|u)|50|54|\-[a-w])|libw|lynx|m1\-w|m3ga|m50\/|ma(te|ui|xo)|mc(01|21|ca)|m\-cr|me(rc|ri)|mi(o8|oa|ts)|mmef|mo(01|02|bi|de|do|t(\-| |o|v)|zz)|mt(50|p1|v )|mwbp|mywa|n10[0-2]|n20[2-3]|n30(0|2)|n50(0|2|5)|n7(0(0|1)|10)|ne((c|m)\-|on|tf|wf|wg|wt)|nok(6|i)|nzph|o2im|op(ti|wv)|oran|owg1|p800|pan(a|d|t)|pdxg|pg(13|\-([1-8]|c))|phil|pire|pl(ay|uc)|pn\-2|po(ck|rt|se)|prox|psio|pt\-g|qa\-a|qc(07|12|21|32|60|\-[2-7]|i\-)|qtek|r380|r600|raks|rim9|ro(ve|zo)|s55\/|sa(ge|ma|mm|ms|ny|va)|sc(01|h\-|oo|p\-)|sdk\/|se(c(\-|0|1)|47|mc|nd|ri)|sgh\-|shar|sie(\-|m)|sk\-0|sl(45|id)|sm(al|ar|b3|it|t5)|so(ft|ny)|sp(01|h\-|v\-|v )|sy(01|mb)|t2(18|50)|t6(00|10|18)|ta(gt|lk)|tcl\-|tdg\-|tel(i|m)|tim\-|t\-mo|to(pl|sh)|ts(70|m\-|m3|m5)|tx\-9|up(\.b|g1|si)|utst|v400|v750|veri|vi(rg|te)|vk(40|5[0-3]|\-v)|vm40|voda|vulc|vx(52|53|60|61|70|80|81|83|85|98)|w3c(\-| )|webc|whit|wi(g |nc|nw)|wmlb|wonu|x700|yas\-|your|zeto|zte\-/i,u=/(android|bb\d+|meego).+mobile|avantgo|bada\/|blackberry|blazer|compal|elaine|fennec|hiptop|iemobile|ip(hone|od)|iris|kindle|lge |maemo|midp|mmp|mobile.+firefox|netfront|opera m(ob|in)i|palm( os)?|phone|p(ixi|re)\/|plucker|pocket|psp|series(4|6)0|symbian|treo|up\.(browser|link)|vodafone|wap|windows ce|xda|xiino|android|ipad|playbook|silk/i,c=/1207|6310|6590|3gso|4thp|50[1-6]i|770s|802s|a wa|abac|ac(er|oo|s\-)|ai(ko|rn)|al(av|ca|co)|amoi|an(ex|ny|yw)|aptu|ar(ch|go)|as(te|us)|attw|au(di|\-m|r |s )|avan|be(ck|ll|nq)|bi(lb|rd)|bl(ac|az)|br(e|v)w|bumb|bw\-(n|u)|c55\/|capi|ccwa|cdm\-|cell|chtm|cldc|cmd\-|co(mp|nd)|craw|da(it|ll|ng)|dbte|dc\-s|devi|dica|dmob|do(c|p)o|ds(12|\-d)|el(49|ai)|em(l2|ul)|er(ic|k0)|esl8|ez([4-7]0|os|wa|ze)|fetc|fly(\-|_)|g1 u|g560|gene|gf\-5|g\-mo|go(\.w|od)|gr(ad|un)|haie|hcit|hd\-(m|p|t)|hei\-|hi(pt|ta)|hp( i|ip)|hs\-c|ht(c(\-| |_|a|g|p|s|t)|tp)|hu(aw|tc)|i\-(20|go|ma)|i230|iac( |\-|\/)|ibro|idea|ig01|ikom|im1k|inno|ipaq|iris|ja(t|v)a|jbro|jemu|jigs|kddi|keji|kgt( |\/)|klon|kpt |kwc\-|kyo(c|k)|le(no|xi)|lg( g|\/(k|l|u)|50|54|\-[a-w])|libw|lynx|m1\-w|m3ga|m50\/|ma(te|ui|xo)|mc(01|21|ca)|m\-cr|me(rc|ri)|mi(o8|oa|ts)|mmef|mo(01|02|bi|de|do|t(\-| |o|v)|zz)|mt(50|p1|v )|mwbp|mywa|n10[0-2]|n20[2-3]|n30(0|2)|n50(0|2|5)|n7(0(0|1)|10)|ne((c|m)\-|on|tf|wf|wg|wt)|nok(6|i)|nzph|o2im|op(ti|wv)|oran|owg1|p800|pan(a|d|t)|pdxg|pg(13|\-([1-8]|c))|phil|pire|pl(ay|uc)|pn\-2|po(ck|rt|se)|prox|psio|pt\-g|qa\-a|qc(07|12|21|32|60|\-[2-7]|i\-)|qtek|r380|r600|raks|rim9|ro(ve|zo)|s55\/|sa(ge|ma|mm|ms|ny|va)|sc(01|h\-|oo|p\-)|sdk\/|se(c(\-|0|1)|47|mc|nd|ri)|sgh\-|shar|sie(\-|m)|sk\-0|sl(45|id)|sm(al|ar|b3|it|t5)|so(ft|ny)|sp(01|h\-|v\-|v )|sy(01|mb)|t2(18|50)|t6(00|10|18)|ta(gt|lk)|tcl\-|tdg\-|tel(i|m)|tim\-|t\-mo|to(pl|sh)|ts(70|m\-|m3|m5)|tx\-9|up(\.b|g1|si)|utst|v400|v750|veri|vi(rg|te)|vk(40|5[0-3]|\-v)|vm40|voda|vulc|vx(52|53|60|61|70|80|81|83|85|98)|w3c(\-| )|webc|whit|wi(g |nc|nw)|wmlb|wonu|x700|yas\-|your|zeto|zte\-/i,f=function(){function e(){n(this,e)}return i(e,[{key:"phone",value:function(){var e=o();return!(!r.test(e)&&!a.test(e.substr(0,4)))}},{key:"mobile",value:function(){var e=o();return!(!u.test(e)&&!c.test(e.substr(0,4)))}},{key:"tablet",value:function(){return this.mobile()&&!this.phone()}}]),e}();t.default=new f},function(e,t){"use strict";Object.defineProperty(t,"__esModule",{value:!0});var n=function(e,t,n){var o=e.node.getAttribute("data-aos-once");t>e.position?e.node.classList.add("aos-animate"):"undefined"!=typeof o&&("false"===o||!n&&"true"!==o)&&e.node.classList.remove("aos-animate")},o=function(e,t){var o=window.pageYOffset,i=window.innerHeight;e.forEach(function(e,r){n(e,i+o,t)})};t.default=o},function(e,t,n){"use strict";function o(e){return e&&e.__esModule?e:{default:e}}Object.defineProperty(t,"__esModule",{value:!0});var i=n(12),r=o(i),a=function(e,t){return e.forEach(function(e,n){e.node.classList.add("aos-init"),e.position=(0,r.default)(e.node,t.offset)}),e};t.default=a},function(e,t,n){"use strict";function o(e){return e&&e.__esModule?e:{default:e}}Object.defineProperty(t,"__esModule",{value:!0});var i=n(13),r=o(i),a=function(e,t){var n=0,o=0,i=window.innerHeight,a={offset:e.getAttribute("data-aos-offset"),anchor:e.getAttribute("data-aos-anchor"),anchorPlacement:e.getAttribute("data-aos-anchor-placement")};switch(a.offset&&!isNaN(a.offset)&&(o=parseInt(a.offset)),a.anchor&&document.querySelectorAll(a.anchor)&&(e=document.querySelectorAll(a.anchor)[0]),n=(0,r.default)(e).top,a.anchorPlacement){case"top-bottom":break;case"center-bottom":n+=e.offsetHeight/2;break;case"bottom-bottom":n+=e.offsetHeight;break;case"top-center":n+=i/2;break;case"bottom-center":n+=i/2+e.offsetHeight;break;case"center-center":n+=i/2+e.offsetHeight/2;break;case"top-top":n+=i;break;case"bottom-top":n+=e.offsetHeight+i;break;case"center-top":n+=e.offsetHeight/2+i}return a.anchorPlacement||a.offset||isNaN(t)||(o=t),n+o};t.default=a},function(e,t){"use strict";Object.defineProperty(t,"__esModule",{value:!0});var n=function(e){for(var t=0,n=0;e&&!isNaN(e.offsetLeft)&&!isNaN(e.offsetTop);)t+=e.offsetLeft-("BODY"!=e.tagName?e.scrollLeft:0),n+=e.offsetTop-("BODY"!=e.tagName?e.scrollTop:0),e=e.offsetParent;return{top:n,left:t}};t.default=n},function(e,t){"use strict";Object.defineProperty(t,"__esModule",{value:!0});var n=function(e){return e=e||document.querySelectorAll("[data-aos]"),Array.prototype.map.call(e,function(e){return{node:e}})};t.default=n}])});

diff --git a/static/kasiup.html b/static/kasiup.html
@@ -14,6 +14,8 @@
     <link rel="stylesheet" type="text/css" href="css/slick.css" />
     <link rel="stylesheet" type="text/css" href="css/slick-theme.css" />
     <link rel="stylesheet" type="text/css" href="css/responsive.css" />
+    <link rel="stylesheet" type="text/css" href="css/aos.css" />
+
     <style>
         #already-registered {
             align-items: center;
@@ -437,6 +439,13 @@
             .howto-tabs .nav-pills .nav-link {
                 padding: 7px 62px;
             }
+            .howto-videotabs {
+                min-height: 364px;
+            }
+            #easy-steps p {
+                font-size: 13px;
+                line-height: 22px;
+            }
         }
     </style>
 </head>
@@ -575,7 +584,7 @@
 
             <!-- Postpaid Plans Start -->
             <section id="prihatin-plans">
-                <div class="container">
+                <div class="container" data-aos="fade-up" data-aos-duration="1000">
                     <div class="row">
                         <div class="table-responsive">
                             <table class="table plan-table">
@@ -705,7 +714,7 @@
             <!-- Postpaid Plans End -->
 
             <!-- Amazing Things Start -->
-            <section id="amazing-things">
+            <section id="amazing-things" data-aos="fade-up">
                 <div class="container">
                     <div class="row">
                         <div class="col-12">
@@ -715,28 +724,28 @@
                         </div>
                     </div>
                     <div class="row row-cols-2 row-cols-lg-4 mb-4">
-                        <div class="col mb-4">
+                        <div class="col mb-4" data-aos="fade-up" data-aos-duration="500">
                             <img src="images/crisp-call-pic.jpg" class="w-100 mb-2" />
                             <h2 class="mb-2">Crisp and<br>Clear Calls</h2>
                             <p>No latency. No jitters.<br>No static. All the way.</p>
                         </div>
-                        <div class="col mb-4">
+                        <div class="col mb-4" data-aos="fade-up" data-aos-duration="500" data-aos-delay="100">
                             <img src="images/4glte-pic.jpg" class="w-100 mb-2" />
                             <h2 class="mb-2">4G LTE means<br>4G LTE</h2>
                             <p>No matter where,<br>no matter what.</p>
                         </div>
-                        <div class="col mb-4">
+                        <div class="col mb-4" data-aos="fade-up" data-aos-duration="500" data-aos-delay="200">
                             <img src="images/cutprices-pic.jpg" class="w-100 mb-2" />
                             <h2 class="mb-2">We Cut Prices,<br>Not Service</h2>
                             <p>Because you deserve<br>the best!</p>
                         </div>
-                        <div class="col mb-4">
+                        <div class="col mb-4" data-aos="fade-up" data-aos-duration="500" data-aos-delay="300">
                             <img src="images/affordable-pic.jpg" class="w-100 mb-2" />
                             <h2 class="mb-2">Affordable and<br>Amazing Deals</h2>
                             <p>Because connectivity is a right,<br>not a privilege.</p>
                         </div>
                     </div>
-                    <div class="row">
+                    <div class="row" data-aos="fade-up" data-aos-duration="500">
                         <div class="col-12 col-lg-6 text-lg-start text-center">
                             <a href="#" class="pink-btn mb-4">Get Started</a>
                             <div class="d-flex align-items-center justify-content-lg-start justify-content-center">
@@ -849,7 +858,7 @@
             <!-- Amazing Things End -->
 
             <!-- How Video Tabs Start -->
-            <section class="mt-5 mb-5 mb-lg-0">
+            <section class="mt-5 mb-5 mb-lg-0" data-aos="fade-up">
                 <div class="container">
                     <div class="row">
                         <div class="howto-videotabs">
@@ -882,7 +891,7 @@
             <!-- How Video Tabs End -->
 
             <!-- FAQs Start -->
-            <section id="faq-section">
+            <section id="faq-section" data-aos="fade-up">
                 <div class="container">
                     <div class="row">
                         <h1 class="mb-5">Frequently Asked Questions about YES</h1>
@@ -1062,6 +1071,7 @@
     <script type="text/javascript" src="js/bootstrap.bundle.js"></script>
     <script type="text/javascript" src="js/iconify.min.js"></script>
     <script type="text/javascript" src="js/slick.js"></script>
+    <script type="text/javascript" src="js/aos.js"></script>
 
     <script type="text/javascript">
         var tooltipTriggerList = [].slice.call(document.querySelectorAll('[data-bs-toggle="tooltip"]'))
@@ -1069,6 +1079,22 @@
             return new bootstrap.Tooltip(tooltipTriggerEl)
         })
     </script>
+
+    <script type="text/javascript">
+        AOS.init();
+    </script>
+
+    <script>
+        jQuery(function($) {
+            window.addEventListener("keydown", function(e) {
+                if (["Space", "ArrowUp", "ArrowDown", "ArrowLeft", "ArrowRight"].indexOf(e.code) > -1) {
+                    e.preventDefault();
+                }
+            }, false);
+        });
+    </script>
+
+
 </body>
 
 </html>
